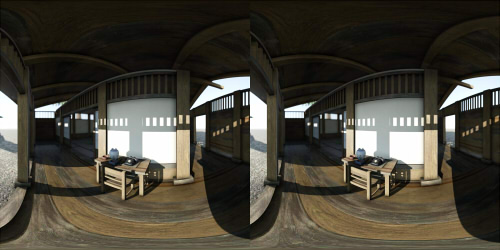
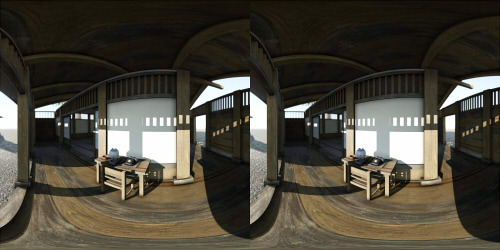
パノラマのページ更新。VR180のSBSのサンプル更新。
アンチエイリアスのピクセル補間が間違ってた。

diff --git a/VRPanorama/index.html b/VRPanorama/index.html
@@ -22,7 +22,7 @@ function doWebVR180 (url)
 
 <body class="l_white">
 	<h2>パノラマVR表示の検証</h2>
-	<div align="right">2018/12/19 Update.</div>
+	<div align="right">2018/12/23 Update.</div>
 	<hr />
 	The English page is <a href="index_en.html">index_en.html</a>.<br><br>
 
@@ -122,7 +122,7 @@ function doWebVR180 (url)
 	</div>
 
 	<h3 class="section">Unity 2018で独自パノラマVRレンダリング (VR180カメラのような)</h3>
-	<div align="right">2018/12/18 Update.</div>
+	<div align="right">2018/12/23 Update.</div>
 	<div class="indent1">
 		IPDは+X/-X方向でのみずらした場合。<br>
 		左右を向くと、視差がなくなるため大きくなるように見える。<br>
@@ -135,12 +135,12 @@ function doWebVR180 (url)
 			</tr>
 			<tr>
 				<th>Resolution</th>
-				<td>4096 x 4096 pixel</td>
+				<td>4096 x 2048 pixel</td>
 			</tr>
 			<tr>
 				<th>Panorama</th>
-				<td>equirectangular<br>
-					Top and Bottom
+				<td>equirectangular(VR180)<br>
+					Side by Side
 				</td>
 			</tr>
 			<tr>
@@ -151,8 +151,8 @@ function doWebVR180 (url)
 		<br>
 
 		以下をクリックするとWebVR表示になります。<br>
-		<img src="./images/my_room_scene/Unity_my_TB_4096x4096_00_thumb.jpg" onClick="doWebVR('images/my_room_scene/Unity_my_TB_4096x4096_00.jpg');" /><br>
-		<a href="./images/my_room_scene/Unity_my_TB_4096x4096_00.jpg" download="Unity_my_TB_4096x4096_00.jpg">Download</a>
+		<img src="./images/my_room_scene/Unity_my_SBS_180_4096x2048_1223_thumb.jpg" onClick="doWebVR180('images/my_room_scene/Unity_my_SBS_180_4096x2048_1223.jpg');" /><br>
+		<a href="./images/my_room_scene/Unity_my_SBS_180_4096x2048_1223.jpg" download="Unity_my_SBS_180_4096x2048_1223.jpg">Download</a>
 		<br><br>
 
 		<table border="0">

diff --git a/VRPanorama/index_en.html b/VRPanorama/index_en.html
@@ -21,7 +21,7 @@ function doWebVR180 (url)
 
 <body class="l_white">
 	<h2>Panorama VR test</h2>
-	<div align="right">2018/12/19 Update.</div>
+	<div align="right">2018/12/23 Update.</div>
 	<hr />
 	It is for verification of display of panorama VR image.<br><br>
 	Click on the thumbnail below, the WebVR screen will be displayed.<br>
@@ -120,7 +120,7 @@ function doWebVR180 (url)
 	</div>
 
 	<h3 class="section">Original Panorama VR rendering with Unity 2018 (like VR180 Camera)</h3>
-	<div align="right">2018/12/18 Update.</div>
+	<div align="right">2018/12/23 Update.</div>
 	<div class="indent1">
 		IPD is shifted only in +X/-X direction.<br>
 		When looking to the left and right, it seems to become big as there is no parallax.<br>
@@ -133,12 +133,12 @@ function doWebVR180 (url)
 			</tr>
 			<tr>
 				<th>Resolution</th>
-				<td>4096 x 4096 pixel</td>
+				<td>4096 x 2048 pixel</td>
 			</tr>
 			<tr>
 				<th>Panorama</th>
-				<td>equirectangular<br>
-					Top and Bottom
+				<td>equirectangular(VR180)<br>
+					Side by Side
 				</td>
 			</tr>
 			<tr>
@@ -149,8 +149,8 @@ function doWebVR180 (url)
 		<br>
 
 		Click on below to display WebVR.<br>
-		<img src="./images/my_room_scene/Unity_my_TB_4096x4096_00_thumb.jpg" onClick="doWebVR('images/my_room_scene/Unity_my_TB_4096x4096_00.jpg');" /><br>
-		<a href="./images/my_room_scene/Unity_my_TB_4096x4096_00.jpg" download="Unity_my_TB_4096x4096_00.jpg">Download</a>
+		<img src="./images/my_room_scene/Unity_my_SBS_180_4096x2048_1223_thumb.jpg" onClick="doWebVR180('images/my_room_scene/Unity_my_SBS_180_4096x2048_1223.jpg');" /><br>
+		<a href="./images/my_room_scene/Unity_my_SBS_180_4096x2048_1223.jpg" download="Unity_my_SBS_180_4096x2048_1223.jpg">Download</a>
 		<br><br>
 
 		<table border="0">
